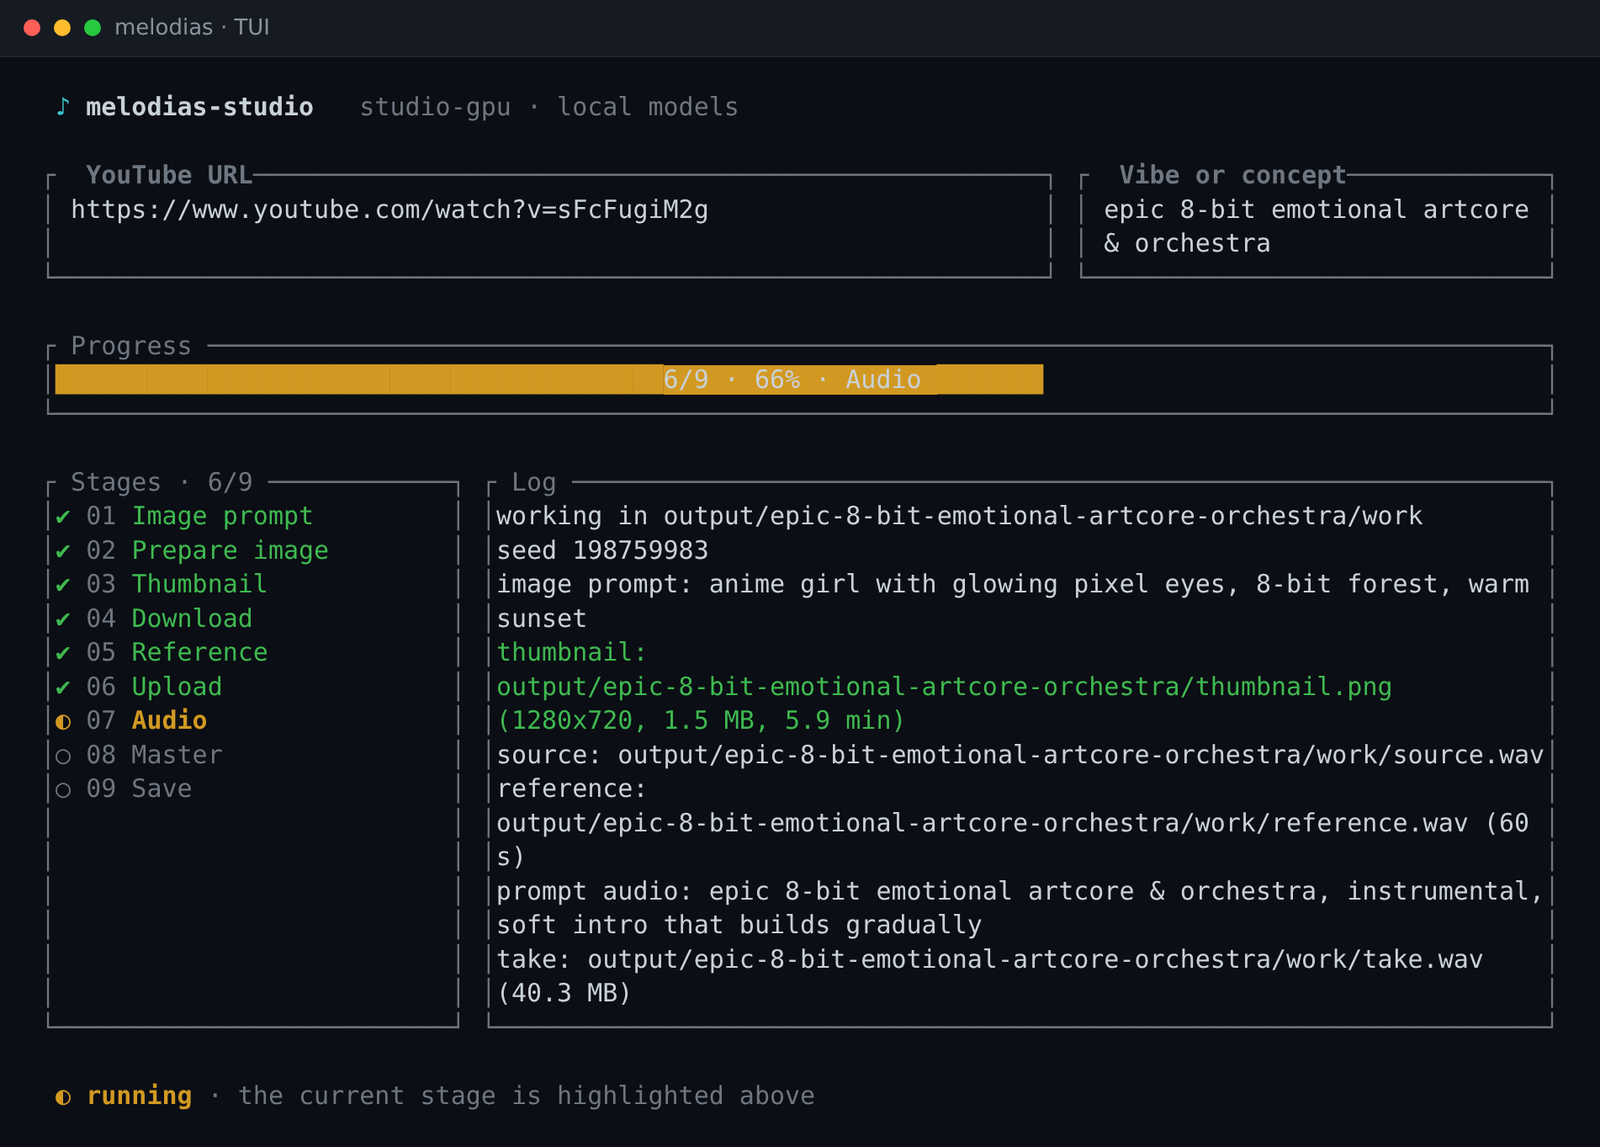
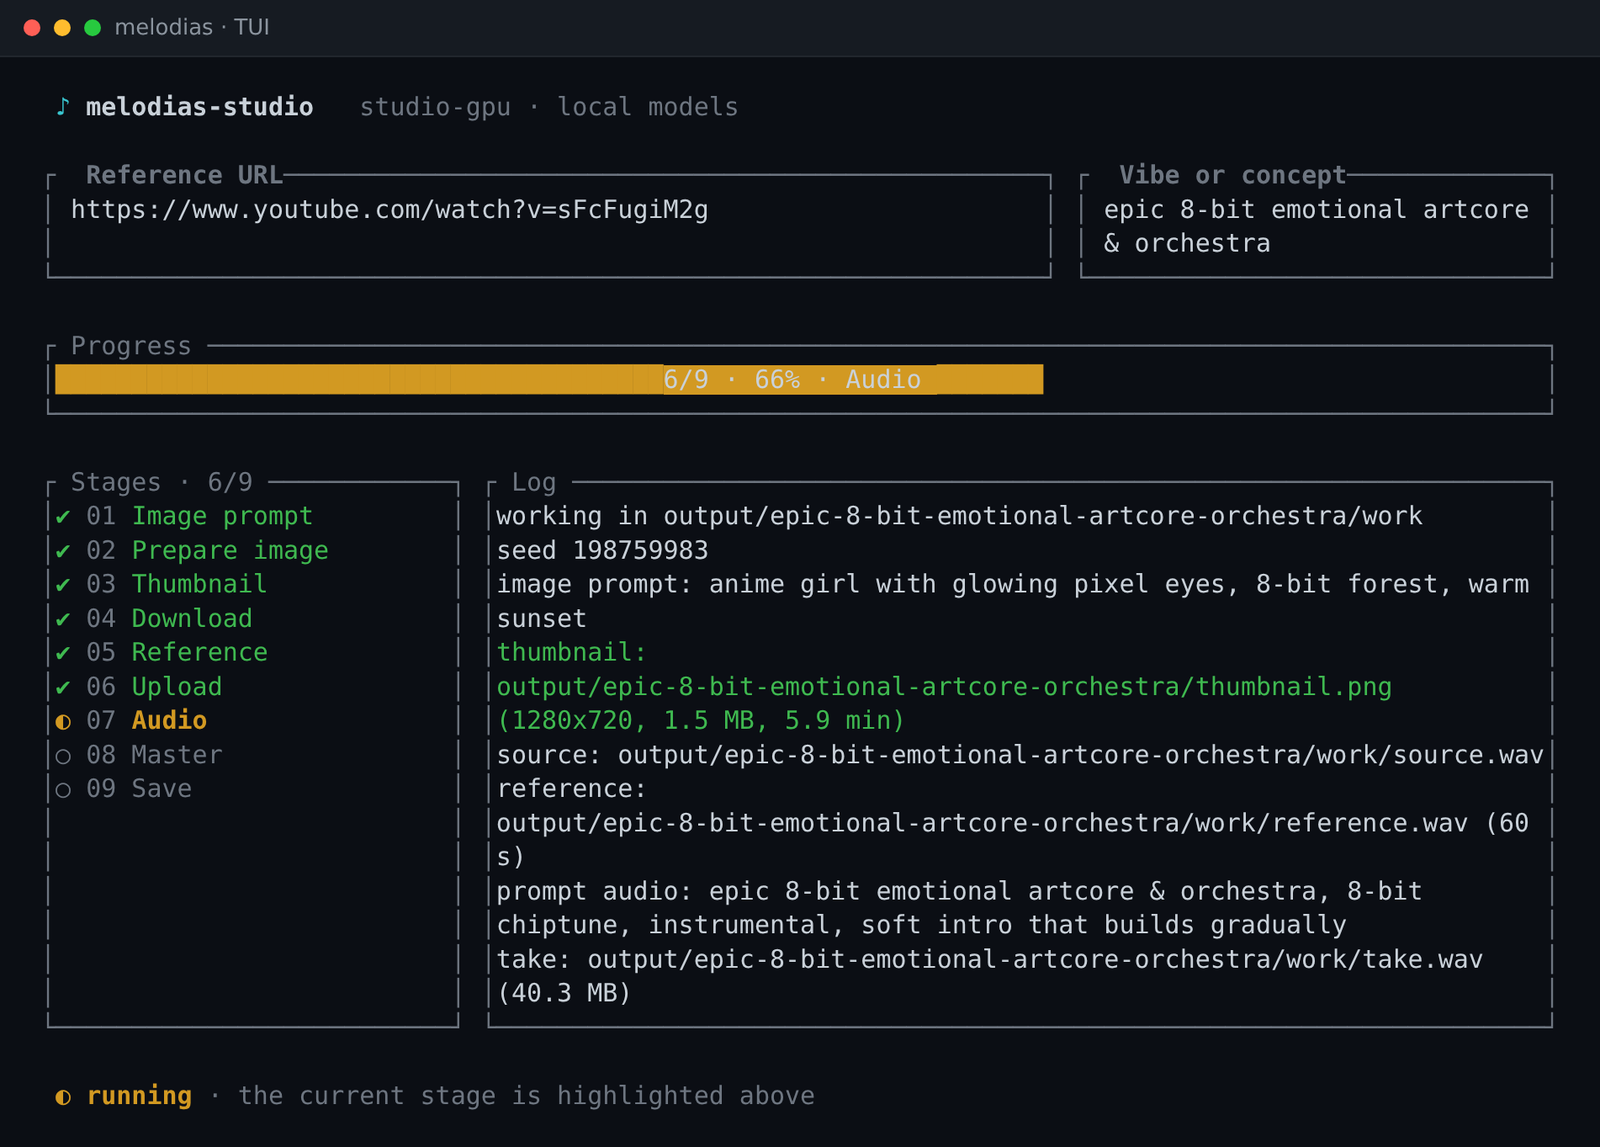
refactor: reframe the studio copy around original content

Changed region(s): [[0.3125, 0.7934, 0.8438, 0.8239], [0.0625, 0.1221, 0.1875, 0.1831], [0.8438, 0.7629, 0.9688, 0.7934]]

diff --git a/src/app.rs b/src/app.rs
@@ -229,7 +229,7 @@ fn draw(frame: &mut Frame, app: &App) {
             .areas(inputs_area);
 
     draw_header(frame, app, header_area);
-    draw_input(frame, app, url_area, Field::Url, "YouTube URL");
+    draw_input(frame, app, url_area, Field::Url, "Reference URL");
     draw_input(frame, app, vibe_area, Field::Vibe, "Vibe or concept");
     draw_gauge(frame, app, gauge_area);
     draw_body(frame, app, body_area);
@@ -509,7 +509,7 @@ mod tests {
             "thumbnail: output/epic-8-bit-emotional-artcore-orchestra/thumbnail.png (1280x720, 1.5 MB, 5.9 min)".to_string(),
             "source: output/epic-8-bit-emotional-artcore-orchestra/work/source.wav".to_string(),
             "reference: output/epic-8-bit-emotional-artcore-orchestra/work/reference.wav (60 s)".to_string(),
-            "prompt audio: epic 8-bit emotional artcore & orchestra, instrumental, soft intro that builds gradually".to_string(),
+            "prompt audio: epic 8-bit emotional artcore & orchestra, 8-bit chiptune, instrumental, soft intro that builds gradually".to_string(),
             "take: output/epic-8-bit-emotional-artcore-orchestra/work/take.wav (40.3 MB)".to_string(),
         ];
         app

diff --git a/src/banner.rs b/src/banner.rs
@@ -15,7 +15,7 @@ const ART: [&str; 5] = [
     "#   # ##### #####  ###  ####  ##### #   # #### ",
 ];
 
-const TAGLINE: &str = "YouTube to thumbnail and song";
+const TAGLINE: &str = "Original 8-bit content, made locally";
 
 /// Prints the banner on the headless start, where there is no alternate screen.
 pub fn print(pretty: bool, gpu: &str) {

diff --git a/docs/architecture/README.md b/docs/architecture/README.md
@@ -1,15 +1,17 @@
 # Architecture
 
 ```
-YouTube URL + vibe
+vibe + reference URL
         │
         ├─ llama-server ───► thumbnail prompt (needs the GPU)
         ├─ sd-server ──────► 1280x720 thumbnail
-        ├─ yt-dlp ─────────► source audio
-        ├─ ffmpeg ─────────► 60 s excerpt with the most energy (timbre reference)
-        ├─ audiocpp_server ► 210 s take with reference_audio
+        ├─ yt-dlp ─────────► reference WAV
+        ├─ ffmpeg ─────────► 60 s excerpt with the most energy
+        ├─ audiocpp_server ► 210 s original take with reference_audio
         └─ ffmpeg ─────────► fade-in/out + loudnorm -15 LUFS
 ```
+
+The reference only conditions timbre. The pipeline does not convert the source: the thumbnail and the track are new material generated from the vibe.
 
 The order is deliberate: the image runs first because it is the most fragile stage, and the download plus audio form one block that only needs the audio server.
 

diff --git a/docs/usage.md b/docs/usage.md
@@ -8,6 +8,8 @@
 melodias
 ```
 
+The reference URL is optional in the product vision but required by the current build. It is used only to condition timbre.
+
 - `Tab` switches between the URL and the vibe.
 - `Enter` moves to the next field, then starts the run.
 - `q` quits, only once the run finished.
@@ -16,7 +18,7 @@ Each stage shows its state, the progress bar tracks how many are done, and the l
 
 ## Headless run
 
-Passing the URL and the vibe as arguments runs the same pipeline without the full screen UI. Each stage is printed as its own colored group with an icon, and tool output from `yt-dlp`, `ffmpeg` and `ssh` goes to the run log instead of the screen:
+Passing the reference URL and the vibe as arguments runs the same pipeline without the full screen UI. Each stage is printed as its own colored group with an icon, and tool output from `yt-dlp`, `ffmpeg` and `ssh` goes to the run log instead of the screen:
 
 ```bash
 MELODIAS_LOG=output/run.log melodias 'https://www.youtube.com/watch?v=...' 'epic 8-bit orchestral finale'

diff --git a/docs/setup.md b/docs/setup.md
@@ -3,7 +3,7 @@
 ## Requirements
 
 - Rust 1.85+ (`rustup default stable`) to build from source.
-- `yt-dlp`, `ffmpeg` and `ffprobe` on `PATH`.
+- `yt-dlp`, `ffmpeg` and `ffprobe` on `PATH`. `yt-dlp` pulls the timbre reference; the thumbnail and the track are generated from scratch.
 - Three HTTP services:
   - a chat completions server for the thumbnail prompt (llama.cpp or any OpenAI-compatible endpoint)
   - a stable-diffusion.cpp server for the image (OpenAI images API)

diff --git a/docs/roadmap.md b/docs/roadmap.md
@@ -1,6 +1,7 @@
 # Roadmap
 
 - [ ] Adversary review: N candidates, local critics, optional cloud judge and video assembly ([design](adversary-review.md)).
+- [ ] Generate without a reference track, from the vibe alone (ACE-Step without `reference_audio`).
 - [ ] Cancel a run in progress and retry a single stage.
 - [ ] Read the video title to name the output folder instead of the vibe.
 - [ ] Write the video entry straight into `jd-llm/projects/melodias8bit/videos/`.

diff --git a/README.md b/README.md
@@ -2,7 +2,9 @@
 
 # melodias-studio
 
-A Rust TUI that turns a YouTube song into an 8-bit thumbnail and a three to four minute instrumental chiptune, using local models.
+A Rust TUI that generates 8-bit thumbnails and original three to four minute instrumental chiptunes for a YouTube channel, using local models.
+
+A reference track can guide the timbre. The thumbnail and the music are generated from scratch, not converted from the source.
 
 ## Quick Start
 
